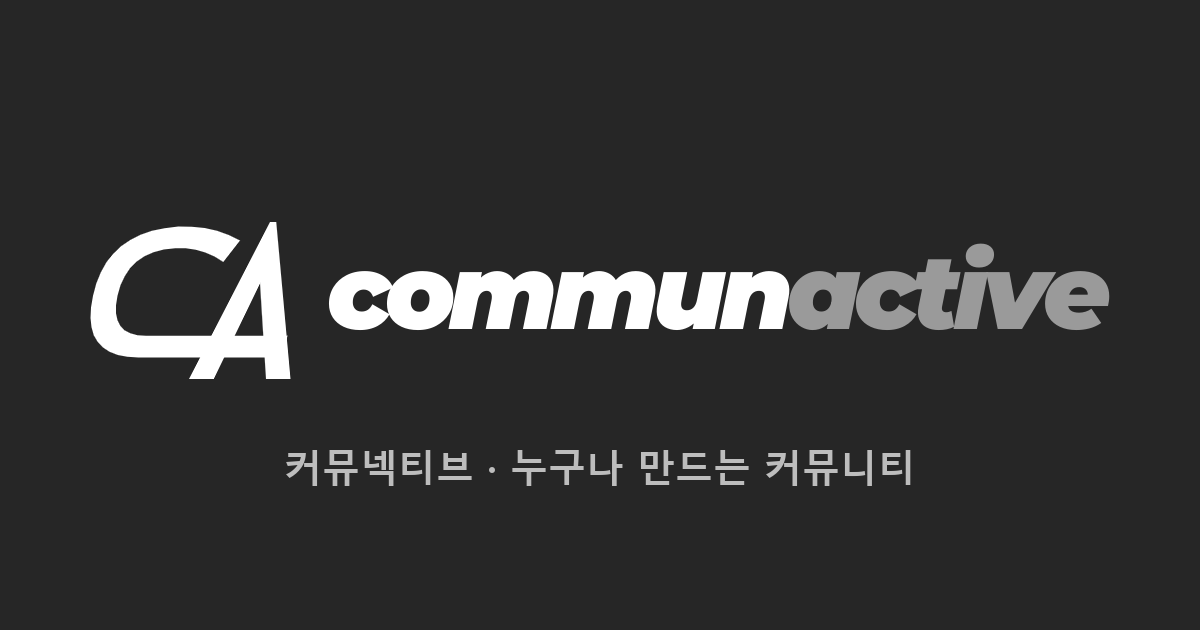
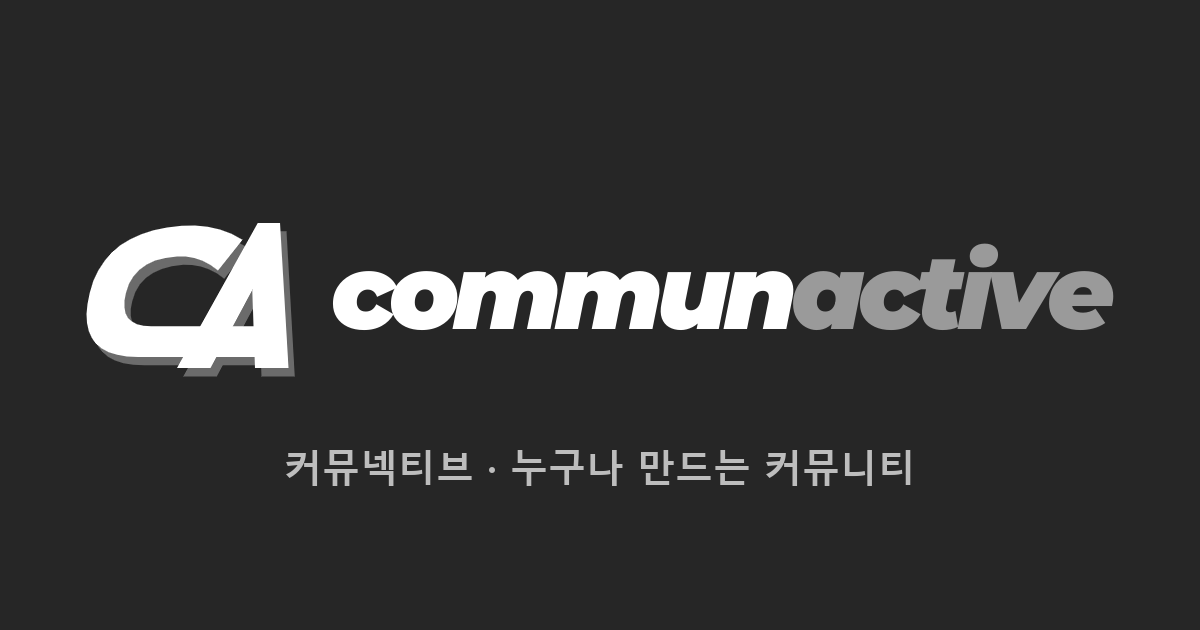
로고 리디자인: 더 굵고 기울인 CA + 입체 그림자 (헤더, 파비콘, 공유 이미지)

Changed region(s): [[0.2775, 0.3921, 0.925, 0.5429], [0.0617, 0.3317, 0.2467, 0.6032], [0.555, 0.5127, 0.5858, 0.5429]]

diff --git a/templates/base.html b/templates/base.html
@@ -37,14 +37,14 @@
   <meta property="og:image" content="{{ url_for('static', filename='img/og-image.png', _external=True) }}">
   <meta name="twitter:card" content="summary_large_image">
   {# ?v= 숫자를 바꾸면 브라우저가 예전 아이콘 캐시를 버리고 새로 받는다 #}
-  <link rel="icon" href="{{ url_for('static', filename='img/favicon-32.png') }}?v=7" type="image/png" sizes="32x32">
-  <link rel="icon" href="{{ url_for('static', filename='img/favicon-192.png') }}?v=7" type="image/png" sizes="192x192">
-  <link rel="apple-touch-icon" href="{{ url_for('static', filename='img/apple-touch-icon.png') }}?v=7">
+  <link rel="icon" href="{{ url_for('static', filename='img/favicon-32.png') }}?v=8" type="image/png" sizes="32x32">
+  <link rel="icon" href="{{ url_for('static', filename='img/favicon-192.png') }}?v=8" type="image/png" sizes="192x192">
+  <link rel="apple-touch-icon" href="{{ url_for('static', filename='img/apple-touch-icon.png') }}?v=8">
   <link rel="preconnect" href="https://fonts.googleapis.com">
   <link rel="preconnect" href="https://fonts.gstatic.com" crossorigin>
   {# 로고 글자 전용 폰트: 로고에 쓰는 글자만 받아서 아주 가볍다 #}
   <link rel="stylesheet" href="https://fonts.googleapis.com/css2?family=Montserrat:ital,wght@1,900&text=communactive&display=swap">
-  <link rel="stylesheet" href="{{ url_for('static', filename='css/style.css') }}?v=15">
+  <link rel="stylesheet" href="{{ url_for('static', filename='css/style.css') }}?v=16">
 </head>
 <body>
 {# 로고 옆 섹션 이름 (디시의 "dcinside | ○○ 갤러리" 처럼) #}
